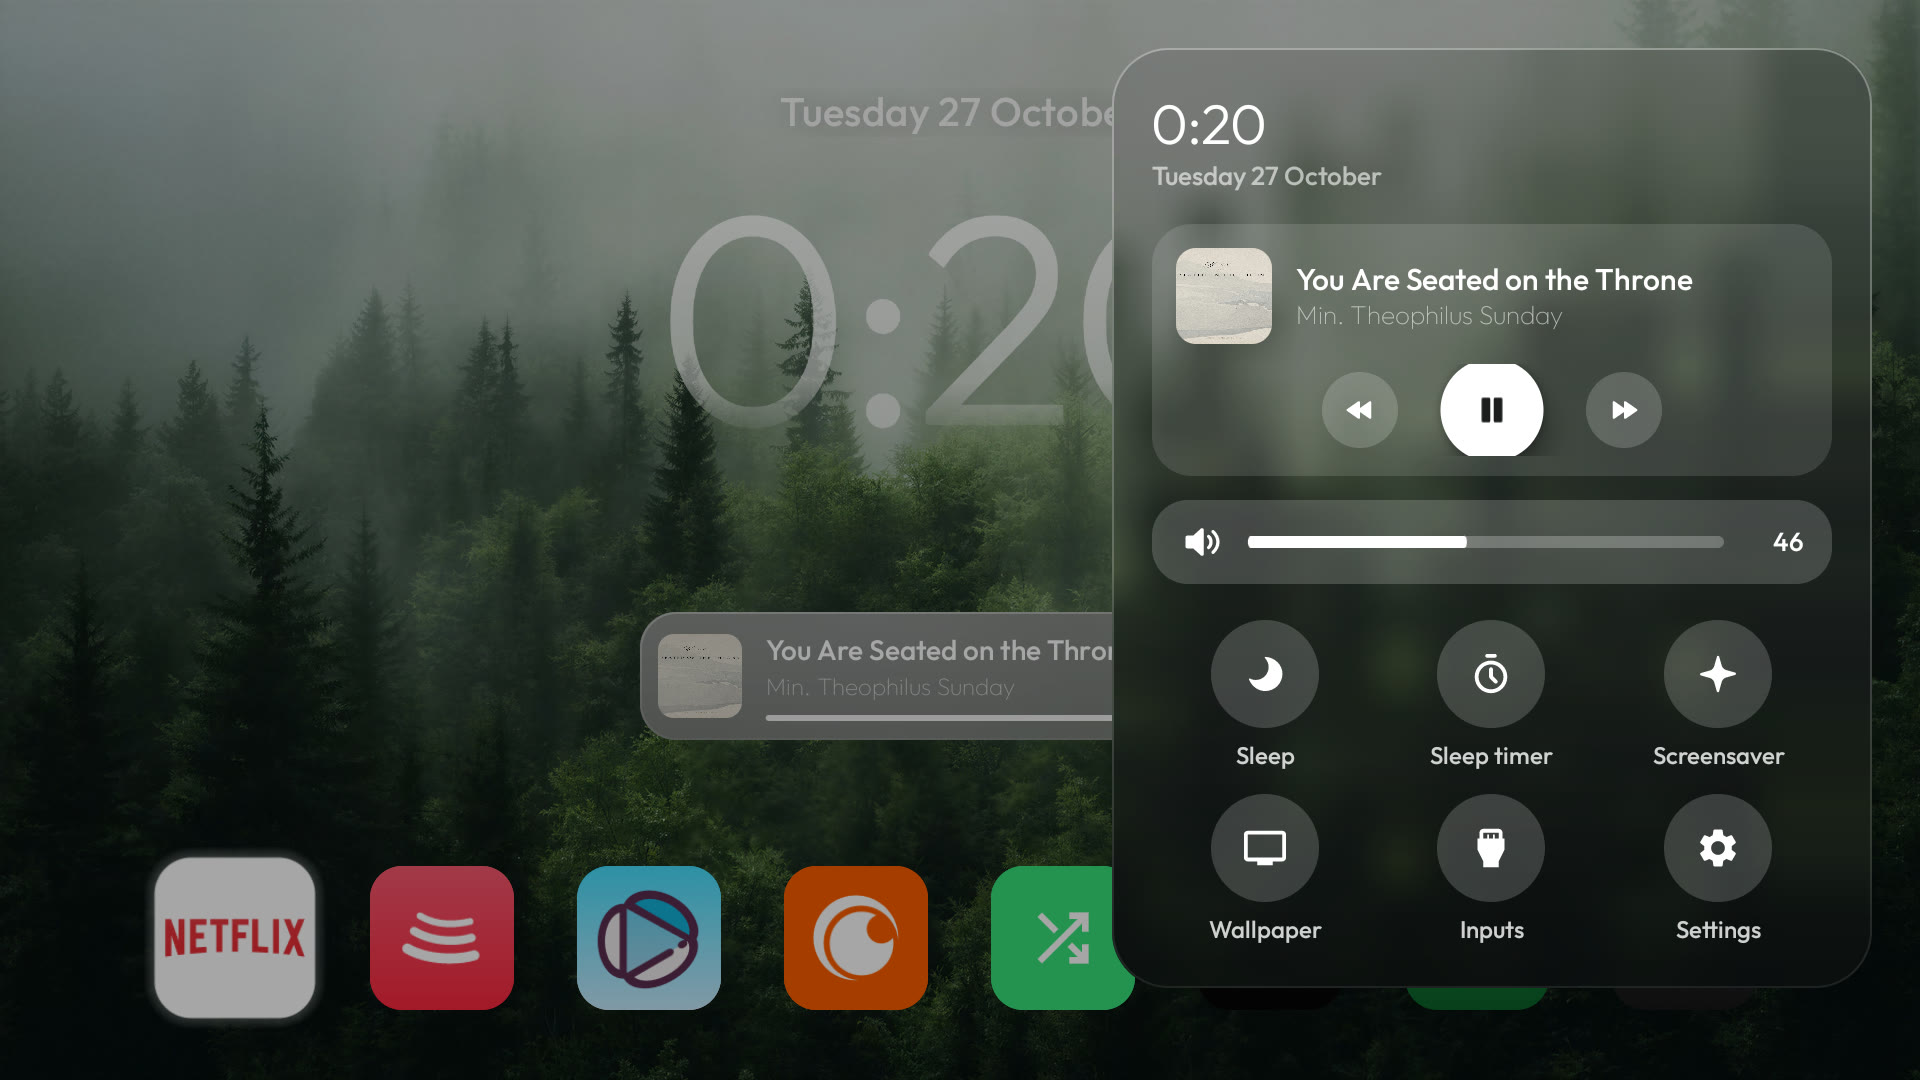
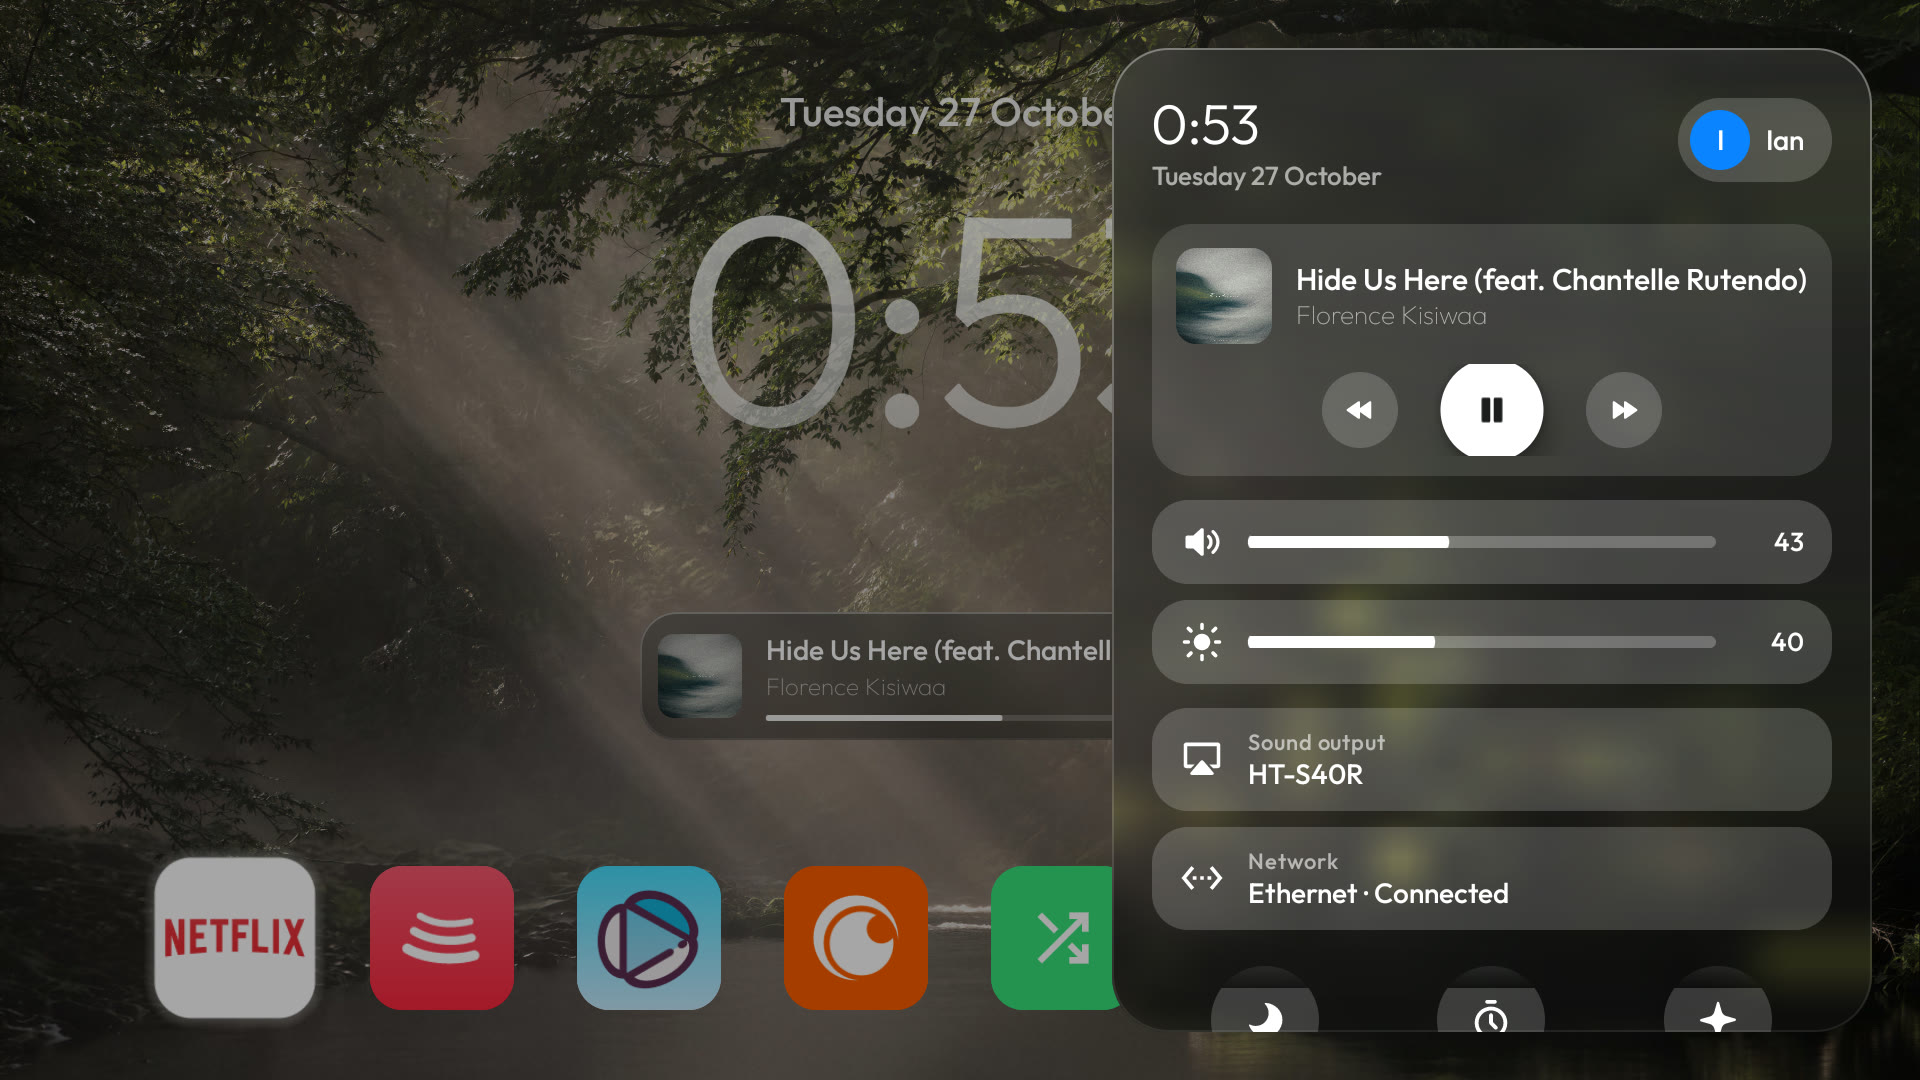
docs: Control Center, Night Shift and profiles in README

diff --git a/README.md b/README.md
@@ -39,6 +39,17 @@ a dimmed home screen.
 
 ![Control Center](screenshots/control-center.jpg)
 
+Scroll down for the controls. **Night Shift** warms everything on screen, every app and HDMI included:
+
+| | |
+|---|---|
+| ![Control Center controls](screenshots/control-center-controls.jpg) | ![Night Shift on](screenshots/night-shift.jpg) |
+
+**Profiles:** pick the person in Control Center's top-right chip. Each has their own dock and wallpapers
+(here Bond, with Prime Video and Reezn in the dock):
+
+![Bond's profile](screenshots/profile-bond.jpg)
+
 **Before:** stock Google TV, with sponsored rows, promos and a profile wall.
 
 ![Stock Google TV home](screenshots/before.jpg)
@@ -55,8 +66,11 @@ a dimmed home screen.
 - **One quiet button** in the top right: Control Center (Inputs lives inside it).
 - **Now Playing:** an Apple Music–style mini player that appears only while something is playing or paused, and
   steps aside when you browse the apps below.
-- **Control Center:** the time, what's playing with back/play-pause/next, a volume slider, and six round controls:
-  Sleep, Sleep timer (cycles 15/30/60/90 min/off), Screensaver, next Wallpaper, Inputs and Settings.
+- **Control Center:** the time and your profile, what's playing with back/play-pause/next, volume and brightness
+  sliders, where sound is going (e.g. a Bluetooth soundbar) and the network, then nine round controls:
+  Sleep, Sleep timer (15/30/60/90 min/off), Screensaver, Night Shift, Screen off (music keeps playing; any button
+  wakes it), Do Not Disturb, next Wallpaper, Inputs and Settings.
+- **Profiles:** each person has their own dock and wallpaper set (`profiles` in the theme's `config.json`).
 - **Nine 4K wallpapers** that rotate every hour with a soft cross-fade.
 
 ## Remote
@@ -99,7 +113,8 @@ The launcher in [`launcher/`](launcher/) is cleanyourtv's reference launcher (pl
 | `keep_watching` | A row of Continue watching cards with posters. Off in this theme, and the only part that uses the internet |
 | CH+/CH− | Step through the wallpapers on Home |
 | `now_playing` | The mini player, from Android's media sessions (needs the notification-listener grant below) |
-| `control_center` | The Control Center panel; Sleep uses a small accessibility service that filters no keys |
+| `control_center` | The Control Center panel. Sleep, Night Shift and Screen off use a small accessibility service that filters no keys, so held volume still ramps |
+| `profiles` | A list of `{name, dock_apps, wallpapers}`; the chip in Control Center switches between them |
 
 The theme itself is [`themes/ian-dusk/`](themes/ian-dusk/): `config.json`, nine 3840×2160 wallpapers, and six depth
 cut-outs. Forest rays and the two ferns have no cut-out on purpose: their busy foliage fills the frame, and
@@ -125,7 +140,7 @@ scripts/install-launcher.sh <tv ip> # builds the launcher and makes it Home
 scripts/push-theme.sh <tv ip>       # wallpapers, depth cut-outs, layout
 ```
 
-Two one-time grants for Now Playing and Control Center's Sleep (or run `scripts/grant.sh <tv ip>`):
+One-time grants for Now Playing and Control Center (or run `scripts/grant.sh <tv ip>`, which also covers brightness and Do Not Disturb):
 
 ```bash
 adb shell cmd notification allow_listener com.gathin.tvhome/.GuardRevival
